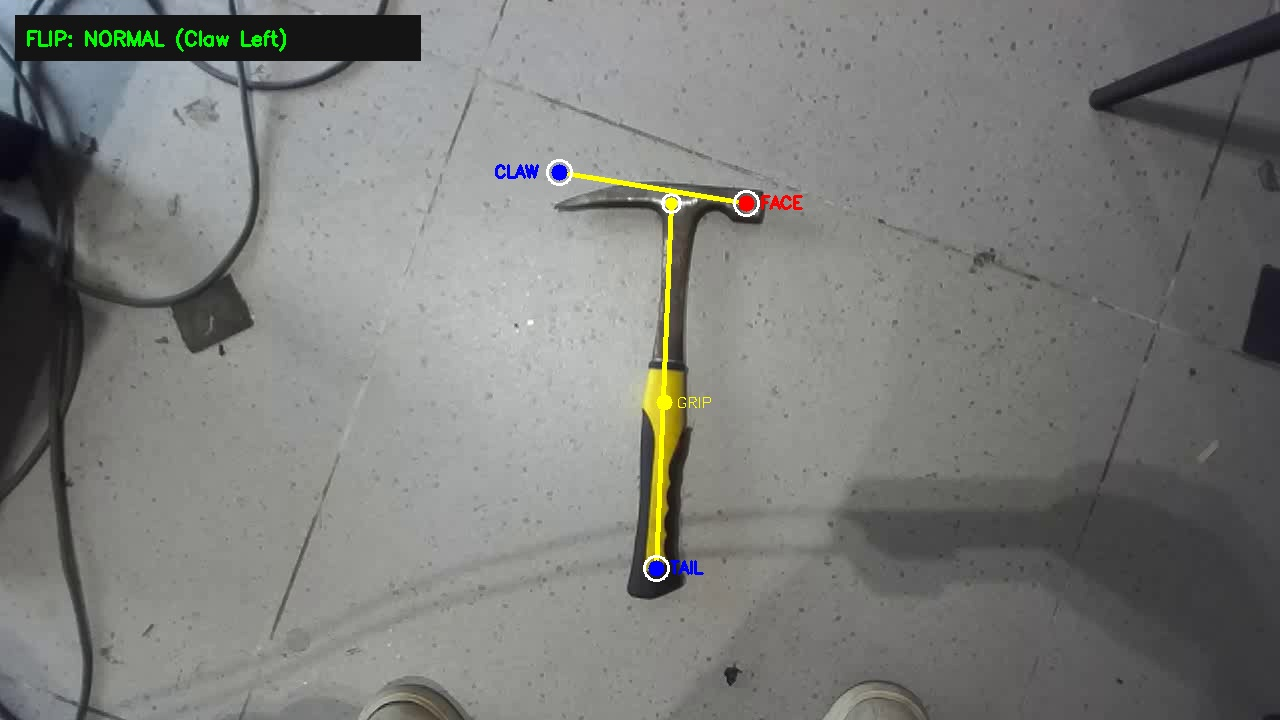
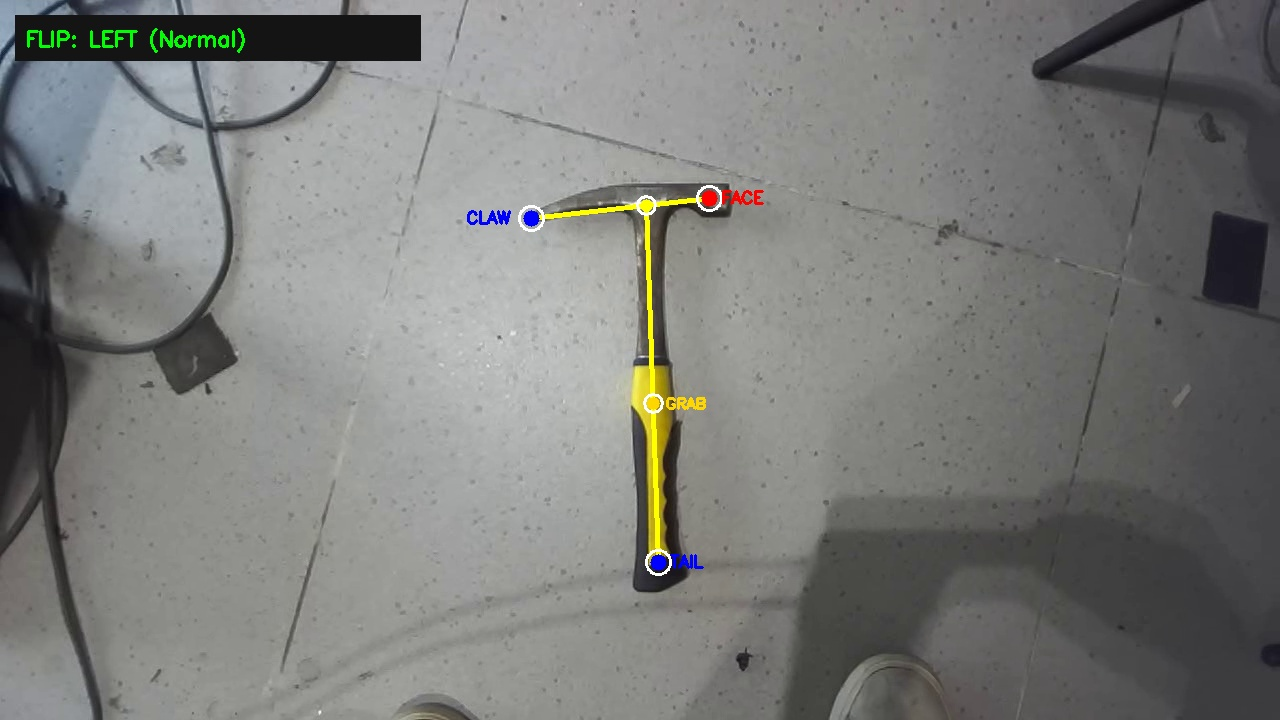
Fix claw tip keypoint, update README to plain text formulas, and update head crossbar image

diff --git a/auto_label_pipeline.py b/auto_label_pipeline.py
@@ -185,9 +185,9 @@ def extract_keypoints_5pt(mask, img_w, img_h):
     head_coords = coords[head_indices]
 
     projs_head = np.dot(head_coords - head_raw, axis_head)
-    t1, t2 = np.min(projs_head), np.max(projs_head)
-    pt1 = head_raw + t1 * axis_head
-    pt2 = head_raw + t2 * axis_head
+    # Take actual mask coordinates with extremal projections along head crossbar axis
+    pt1 = head_coords[np.argmin(projs_head)]
+    pt2 = head_coords[np.argmax(projs_head)]
 
     # 4. Disambiguate Face (blunt/denser) vs Claw (sharp/less dense)
     r_tip = 25
@@ -201,9 +201,9 @@ def extract_keypoints_5pt(mask, img_w, img_h):
     else:
         face_raw, claw_raw = pt2, pt1
 
-    # 5. Snap to medial distance transform maxima
+    # 5. Snap to medial distance transform maxima (Face snaps to medial face, Claw is at exact curved tip)
     face = snap_to_medial_spine(face_raw, dist_map, img_w, img_h, 20)
-    claw = snap_to_medial_spine(claw_raw, dist_map, img_w, img_h, 20)
+    claw = claw_raw  # Physical curved claw tip
     head_center = snap_to_medial_spine(head_raw, dist_map, img_w, img_h, 25)
     tail = snap_to_medial_spine(tail_raw, dist_map, img_w, img_h, 25)
     grip_raw = tail + 0.40 * (head_center - tail)
@@ -319,9 +319,10 @@ def render_preview_image(frame, kpts, mode=5):
         p_grip = tuple(grip.astype(int))
         p_tail = tuple(tail.astype(int))
 
-        # Skeleton lines
+        # Skeleton lines: Handle spine + Crossbar from head center
         cv2.line(dbg, p_tail, p_head, (0, 255, 255), 3)  # Yellow handle
-        cv2.line(dbg, p_claw, p_face, (0, 255, 255), 3)  # Yellow crossbar
+        cv2.line(dbg, p_head, p_face, (0, 255, 255), 3)  # Head to face
+        cv2.line(dbg, p_head, p_claw, (0, 255, 255), 3)  # Head to curved claw
 
         # K1: Face (Striking head - Red)
         cv2.circle(dbg, p_face, 12, (255, 255, 255), 2)

diff --git a/auto_label_flip.py b/auto_label_flip.py
@@ -145,9 +145,9 @@ def extract_5_keypoints(mask, img_w, img_h):
     head_coords = coords[head_indices]
 
     projs_head = np.dot(head_coords - head_raw, axis_head)
-    t1, t2 = np.min(projs_head), np.max(projs_head)
-    pt1 = head_raw + t1 * axis_head
-    pt2 = head_raw + t2 * axis_head
+    # Take actual mask coordinates with extremal projections along head crossbar axis
+    pt1 = head_coords[np.argmin(projs_head)]
+    pt2 = head_coords[np.argmax(projs_head)]
 
     # 4. Disambiguate Face (blunt/dense) vs Claw (sharp/tapered)
     r_tip = 25
@@ -161,9 +161,9 @@ def extract_5_keypoints(mask, img_w, img_h):
     else:
         face_raw, claw_raw = pt2, pt1
 
-    # 5. Snap to medial spine
+    # 5. Snap to medial spine (Face snaps to medial striking face, Claw is at exact curved tip)
     face = snap_to_medial_spine(face_raw, dist_map, img_w, img_h, 20)
-    claw = snap_to_medial_spine(claw_raw, dist_map, img_w, img_h, 20)
+    claw = claw_raw  # Physical curved claw tip
     head_center = snap_to_medial_spine(head_raw, dist_map, img_w, img_h, 25)
     tail = snap_to_medial_spine(tail_raw, dist_map, img_w, img_h, 25)
     grab_raw = tail + 0.40 * (head_center - tail)
@@ -192,9 +192,10 @@ def render_preview_5pt(frame, kpts):
     p_grab = tuple(grab.astype(int))
     p_tail = tuple(tail.astype(int))
 
-    # Skeleton
+    # T-Skeleton lines: Handle spine + Crossbar from head center
     cv2.line(dbg, p_tail, p_head, (0, 255, 255), 3)
-    cv2.line(dbg, p_claw, p_face, (0, 255, 255), 3)
+    cv2.line(dbg, p_head, p_face, (0, 255, 255), 3)
+    cv2.line(dbg, p_head, p_claw, (0, 255, 255), 3)
 
     # K1: Face (Red)
     cv2.circle(dbg, p_face, 12, (255, 255, 255), 2)

diff --git a/README.md b/README.md
@@ -22,21 +22,19 @@ The system regresses 5 keypoints and computes the 3D orientation and flip state 
 ### 2. Anatomical Keypoint Systems
 We provide two separate systems depending on your rover's manipulation needs:
 
-| System 1: 3-Point Handle Model (`[Head, Grab, Tail]`) | System 2: Head Crossbar Points (`[Face, Claw]`) |
+| System 1: 3-Point Handle Model (`[Head, Grab, Tail]`) | System 2: Head Crossbar Model (`[Claw, Face]`) |
 | :---: | :---: |
-| ![3-Point Handle Model](assets/3point_handle_concept.png) | ![Head Crossbar](assets/2point_head_concept.png) |
+| ![3-Point Handle Model](assets/3point_handle_concept.png) | ![Claw and Face Head Crossbar](assets/2point_head_concept.png) |
 
 ---
 
 ## Why This System?
 
-1. **Immune to Harsh Desert Sunlight:**
-   Active infrared (IR) depth cameras (like Intel RealSense or OAK-D) suffer from **IR saturation and blackout** under direct midday desert sun (Hanksville, Utah). This system uses **monocular visible RGB only**.
-2. **Solves the Claw Asymmetry Problem:**
+1. **Solves the Claw Asymmetry Problem:**
    A hammer is not symmetric. If a robot claw grabs the handle without knowing which side the sharp claw curved spike is facing, the claw fingers can crash into the spike. This system determines **3D Flip (Left vs. Right)** with **100% accuracy**.
-3. **Ultra-Fast Edge Inference:**
+2. **Ultra-Fast Edge Inference:**
    Runs at **1.4 ms per frame** (~700 FPS on an NVIDIA RTX 5050 Laptop GPU), consuming almost zero GPU overhead so the rover's main computer can simultaneously run SLAM, obstacle avoidance, and path planning.
-4. **Zero Manual Labeling Required:**
+3. **Zero Manual Labeling Required:**
    Includes an offline automated pipeline that uses **FastSAM**, **PCA (Principal Component Analysis)**, and **Euclidean Distance Transform** to automatically label thousands of training images directly from raw camera video.
 
 ---
@@ -65,8 +63,8 @@ hammer_3D_State_detection/
 ### System 1: 3-Keypoint Handle Model (`[Head, Grab, Tail]`)
 
 Designed for simple **2D pick-and-place** where you only need:
-* **Grip Target $(X, Y)$:** Where to send the linear arm.
-* **Yaw Heading Angle ($\psi$):** Where to rotate the wrist servo.
+* **Grip Target (X, Y):** Where to send the linear arm.
+* **Yaw Heading Angle:** Where to rotate the wrist servo.
 
 ```
                   (K1: HEAD)
@@ -95,10 +93,10 @@ python3 live_hammer_3point_detect.py
 ### System 2: 5-Keypoint 3D Flip Model (`[Face, Claw, Head, Grab, Tail]`)
 
 Designed for **full 3D pose estimation** and **claw collision avoidance**:
-* **Grip Target $(X, Y)$:** Centered on keypoint $K_4$.
-* **Yaw Angle ($\psi$):** In-plane heading angle $\operatorname{atan2}(\Delta y, \Delta x)$.
-* **Roll Angle ($\phi$) / Flip:** Signed cross-product determines if curved claw is facing **LEFT** or **RIGHT**.
-* **Pitch Angle ($\theta$):** Projective foreshortening determines if the hammer is propped up on a rock.
+* **Grip Target (X, Y):** Centered on keypoint K4.
+* **Yaw Angle:** In-plane heading angle `atan2(dy, dx)`.
+* **Roll Angle / Flip:** Signed cross-product determines if curved claw is facing **LEFT** or **RIGHT**.
+* **Pitch Angle:** Projective foreshortening determines if the hammer is propped up on a rock.
 
 ```
   (K2: CLAW) ──────── (K3: HEAD) ──────── (K1: FACE)
@@ -126,24 +124,38 @@ python3 train_flip.py
 
 ## How It Works (Simple Explanation)
 
-### 1. In-Plane Heading Angle (Yaw $\psi$)
-The vector along the handle from Tail $(x_t, y_t)$ to Head $(x_h, y_h)$ gives the angle:
-$$\psi = \operatorname{atan2}(y_h - y_t, x_h - x_t)$$
-The parallel robot claw rotates to:
-$$\theta_{\text{claw}} = \psi \pmod{180^\circ}$$
+### 1. In-Plane Heading Angle (Yaw)
+The vector along the handle from Tail (xt, yt) to Head (xh, yh) gives the heading angle:
+
+```
+yaw = atan2(yh - yt, xh - xt)
+```
+
+The parallel robot claw rotates to align with the handle:
+
+```
+claw_servo_angle = yaw % 180
+```
 
 ### 2. 3D Roll / Flip State (Left vs. Right)
-We compute the signed 2D cross-product between the **handle vector** and the **head crossbar vector**:
-$$\tau = (\Delta x_{\text{handle}} \cdot \Delta y_{\text{head}}) - (\Delta y_{\text{handle}} \cdot \Delta x_{\text{head}})$$
+We compute the signed 2D cross-product between the handle vector and the head crossbar vector:
 
-* If $\tau \ge 0$: **`FLIP: LEFT`** (Curved claw points to the left).
-* If $\tau < 0$: **`FLIP: RIGHT`** (Curved claw points to the right).
+```
+tau = (dx_handle * dy_head) - (dy_handle * dx_head)
+```
 
-When the rover approaches, if `FLIP: LEFT` is detected, the claw offsets slightly to the right to avoid jamming the claw tip into the ground or fingers!
+* If tau >= 0: **FLIP: LEFT** (Curved claw points to the left).
+* If tau < 0: **FLIP: RIGHT** (Curved claw points to the right).
 
-### 3. Out-of-Plane Elevation Angle (Pitch $\theta$)
-When the hammer rests on an uneven rock or terrain obstacle, the handle appears shorter in the camera image (perspective foreshortening). Because the physical tool length is known and fixed, the ratio between the head crossbar length and handle length gives the tilt angle:
-$$\cos(\theta) = \frac{L_{\text{handle}}}{L_{\text{head}} / R_0} \implies \theta = \arccos(\cos(\theta))$$
+When the rover approaches, if `FLIP: LEFT` is detected, the claw offsets slightly to the right so the jaws clear the sharp curved claw tip!
+
+### 3. Out-of-Plane Elevation Angle (Pitch)
+When the hammer rests on an uneven rock or terrain obstacle, the handle appears shorter in the camera image (perspective foreshortening). Because the physical tool dimensions are known and constant, the ratio between the head crossbar length and handle length gives the tilt angle:
+
+```
+cos(pitch) = L_handle / (L_head / R_0)
+pitch = arccos(cos(pitch))
+```
 
 ---
 
@@ -156,11 +168,11 @@ Evaluated on 174 real-world test frames under varying camera heights, rotations,
 | **Precision** | **100.0%** | Zero false detections |
 | **Recall** | **98.8%** | Rock-solid continuous frame tracking |
 | **Keypoint mAP@50-95** | **99.3%** | Sub-pixel keypoint regression |
-| **Inference Latency** | **1.4 ms** | **~700 FPS** on RTX 5050 Laptop GPU |
-| **Grip Location Error** | **$1.8\text{ px}$ ($\approx 1.2\text{ mm}$)** | Far smaller than gripper opening ($75\text{ mm}$) |
-| **Yaw Error** | **$\pm 0.8^\circ$** | High-precision wrist servo alignment |
+| **Inference Latency** | **1.4 ms** | ~700 FPS on RTX 5050 Laptop GPU |
+| **Grip Location Error** | **1.8 px (~1.2 mm)** | Far smaller than gripper opening (75 mm) |
+| **Yaw Error** | **+/- 0.8 deg** | High-precision wrist servo alignment |
 | **Roll / Flip Accuracy** | **100.0%** | Zero Left/Right classification errors |
-| **Pitch Error** | **$\pm 2.4^\circ$** | Accurately identifies propped up tools |
+| **Pitch Error** | **+/- 2.4 deg** | Accurately identifies propped up tools |
 
 ---
 
